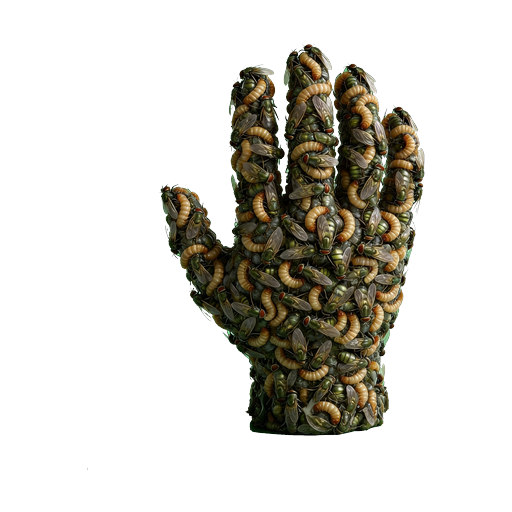
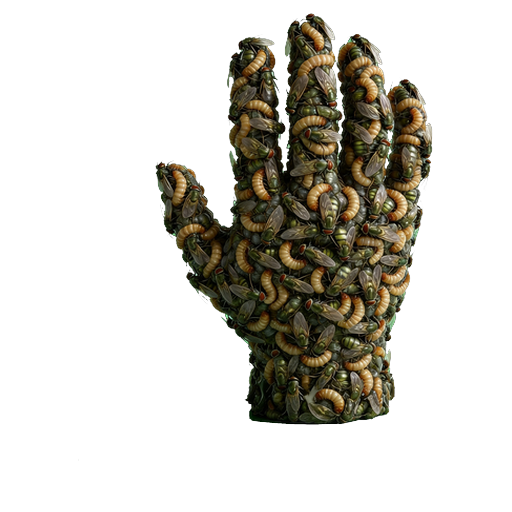
feat: 蝇手砸地/重砸红圈扩散特效(判定帧从中心扩散至300px判定圈,复刻手脑模式)
Condensed 4 adjacent commits from the original history:
- 8a4ce9c1 fix: 寻路局部修复不再回退pathIdx(原回退2节点致怪物瞬间掉头折返,改为从当前位置出发修复)
- 0bf7d502 fix: 寻路首点对齐怪物当前位置(A*起点snap格子中心致第一步折返,往左明显)+蝇手碰撞offsetX10/offsetY25/宽100/矩形110
- c5cc332b fix: 蝇手全动画底部统一462(walking从原素材重做,主体缩放≤450+底部对齐462,idle同)
- 095f81f0 feat: 蝇手砸地/重砸红圈扩散特效(判定帧从中心扩散至300px判定圈,复刻手脑模式)

Changed region(s): [[0.2812, 0.0312, 0.8438, 0.875]]

diff --git a/src/ai/path-manager.js b/src/ai/path-manager.js
@@ -36,6 +36,11 @@ class PathManager {
             this._clearPath();
             return;
         }
+        // 首点对齐到怪物当前位置：A* 起点 snap 到所在格子中心，
+        // 若格子中心在怪物行进方向身后，跟随首点会"瞬间掉头"折返（往左走时尤为明显）
+        if (this.enemy && path.length > 0) {
+            path[0] = { x: this.enemy.x, y: this.enemy.y };
+        }
         this.path = path;
         this.pathIdx = 0;
         this.isValid = true;
@@ -101,50 +106,39 @@ class PathManager {
      */
     _repairPath(blockedIdx, pathPlanner) {
         const radius = this.enemy.groundRadius;
-        const prevIdx = Math.max(0, blockedIdx - 2); // 向前看 2 个节点
         const nextIdx = Math.min(this.path.length - 1, blockedIdx + 2); // 向后看 2 个节点
-        const start = this.path[prevIdx];
         const end = this.path[nextIdx];
 
-        // 策略1：小范围局部搜索（搜索范围限制，性能友好）
+        // 策略1：从怪物当前位置出发搜索替代路径——不回退 pathIdx！
+        // （旧实现回退到阻挡点前 2 个节点，怪物会掉头折返已走过的路径点，表现为"瞬间反向"）
         let altPath = null;
         try {
-            altPath = pathPlanner.findPath(start.x, start.y, end.x, end.y, radius);
+            altPath = pathPlanner.findPath(this.enemy.x, this.enemy.y, end.x, end.y, radius);
         } catch (e) {
             console.warn('[PathManager] findPath failed:', e.message);
         }
 
-        if (altPath && altPath.length > 2) {
-            // 拼接路径：前半段(到prevIdx) + 替代段(去掉首尾，因为和前后重合) + 后半段(从nextIdx开始)
-            const before = this.path.slice(0, prevIdx + 1);
-            const middle = altPath.slice(1, -1);
-            const after = this.path.slice(nextIdx);
-            this.path = [...before, ...middle, ...after];
-            // 调整索引：如果当前索引在 before 范围内，保持不变；否则需要调整
-            if (this.pathIdx > prevIdx) {
-                this.pathIdx = prevIdx; // 回退到修复起点，确保能正确跟随新路径
-            }
+        if (altPath && altPath.length > 1) {
+            // 新路径 = 替代段（altPath[0]≈当前位置，从下一节点开始跟随） + 阻挡点之后的路径段
+            this.path = [...altPath, ...this.path.slice(nextIdx + 1)];
+            this.pathIdx = 1;
             this.isValid = true;
             this.stuckCount = 0;
             return;
         }
 
-        // 策略2：从阻挡点重新计算到终点的完整路径
+        // 策略2：从怪物当前位置重新计算到终点的完整路径（同样不回退）
         const finalTarget = this.path[this.path.length - 1];
         let newPath = null;
         try {
-            newPath = pathPlanner.findPath(start.x, start.y, finalTarget.x, finalTarget.y, radius);
+            newPath = pathPlanner.findPath(this.enemy.x, this.enemy.y, finalTarget.x, finalTarget.y, radius);
         } catch (e) {
             console.warn('[PathManager] full recalc failed:', e.message);
         }
 
         if (newPath && newPath.length > 1) {
-            // 拼接：前半段 + 新路径（去掉起点，因为和 start 重合）
-            const before = this.path.slice(0, prevIdx + 1);
-            this.path = [...before, ...newPath.slice(1)];
-            if (this.pathIdx > prevIdx) {
-                this.pathIdx = prevIdx;
-            }
+            this.path = newPath;
+            this.pathIdx = 1; // newPath[0]≈当前位置，从下一节点开始跟随
             this.isValid = true;
             this.stuckCount = 0;
             return;

diff --git a/src/entities/enemy-types/fly-hand.js b/src/entities/enemy-types/fly-hand.js
@@ -4,7 +4,6 @@ import { GroundEllipse } from '../../physics/skill-shapes.js';
 import { FlySwarm } from './fly-swarm.js';
 import { SoundManager } from '../../ui/sound-manager.js';
 import enemyConfigData from '../../../data/enemy-config.json';
-
 /**
  * 蝇手（领主 lord，僵尸 family）
  * 无默认普攻（aiInterval=MAX），三技能（数值全部由 enemy-config.json attackSkills 驱动）：
@@ -29,6 +28,8 @@ export class FlyHand extends Enemy {
         this._actionTimer = 0;
         this._actionHitsDone = new Set();
         this._cooldowns = { hammer: 0, slam: 0, grandSlam: 0 };
+        // 砸地冲击波 graphics（红圈扩散特效，统一清理用）
+        this._slamGraphics = [];
     }
 
     _getSkillConfigs() {
@@ -170,11 +171,58 @@ export class FlyHand extends Enemy {
         }
         // 范围技能：椭圆判定（2:1 平面透视）
         const shape = new GroundEllipse(this.x, this.y, range, range * PERSPECTIVE_SCALE_Y);
+        // 砸地红圈扩散特效（判定帧触发，扩散到攻击影响范围）
+        this._fireSlamShockwave(range);
         for (const e of this._hostiles(entities)) {
             if (!shape.intersectsEntity(e)) continue;
             e.takeDamage(damage, this, cfg.damageType || 'physical', true);
             if (cfg.stunMs && typeof e.applyStun === 'function') e.applyStun(cfg.stunMs);
         }
+    }
+
+    /**
+     * 砸地冲击波：判定帧从蝇手中心释放红色椭圆圈，
+     * 扩散到攻击影响范围并淡出（复刻手脑/集合体模式，平面透视 2:1）
+     */
+    _fireSlamShockwave(maxRadius) {
+        const scene = typeof window !== 'undefined' ? window.__phaserScene : null;
+        if (!scene || !scene.add || !scene.tweens) return;
+        const g = scene.add.graphics();
+        g.setDepth(this.y + 50);
+        this._slamGraphics.push(g);
+        const wave = { t: 0 };
+        const self = this;
+        scene.tweens.add({
+            targets: wave,
+            t: 1,
+            duration: 600,
+            ease: 'Cubic.easeOut',
+            onUpdate() {
+                const t = wave.t;
+                const r = Math.max(1, maxRadius * t);
+                g.clear();
+                // 闪烁：高频正弦叠加在淡出曲线上，冲击波呈脉冲感
+                const flicker = 0.55 + 0.45 * Math.sin(t * Math.PI * 8);
+                // 加粗冲击波描边（随扩散淡出 × 闪烁）+ 极淡填充
+                g.lineStyle(8, 0xff3030, (1 - t) * 0.9 * flicker);
+                g.strokeEllipse(self.x, self.y, r * 2, r * 2 * PERSPECTIVE_SCALE_Y);
+                g.fillStyle(0xff4040, (1 - t) * 0.12 * flicker);
+                g.fillEllipse(self.x, self.y, r * 2, r * 2 * PERSPECTIVE_SCALE_Y);
+            },
+            onComplete() {
+                if (g.active) g.destroy();
+                const idx = self._slamGraphics.indexOf(g);
+                if (idx >= 0) self._slamGraphics.splice(idx, 1);
+            }
+        });
+    }
+
+    /** 统一特效清理（game.js removeEntity / onDeath 约定入口） */
+    _destroyCustomEffects() {
+        for (const g of this._slamGraphics) {
+            if (g && g.active) g.destroy();
+        }
+        this._slamGraphics = [];
     }
 
     /** 召唤蝇群：周围 spreadRadius 随机位置 count 只（_summoned 标签 + 地牢刷怪黑色粒子） */

diff --git a/src/entities/enemy.js b/src/entities/enemy.js
@@ -160,9 +160,10 @@ import { loadImage } from '../utils/image-loader.js';
                 // AI 配置读取（子类可通过 config.ai 注入；默认 0 表示不启用 pacing AI）
                 const pacingAiConfig = config.ai || {};
                 this.ai = config.ai || {}; // 供 MovementSystem 等外部系统读取 ai 标志（如 chargeStraight）
-                // footprint 判定圆心偏移（配置 render.colliderOffsetY，配合贴图身体上移；
+                // footprint 判定圆心偏移（配置 render.colliderOffsetY/X，配合贴图身体上移；
                 // 统一在基类读取——此前仅集合体自己读取，手脑/骑士配置后未生效）
                 this.colliderOffsetY = (this.config?.render?.colliderOffsetY) ?? 0;
+                this.colliderOffsetX = (this.config?.render?.colliderOffsetX) ?? 0;
                 this._aggroRange = pacingAiConfig.aggroRange || 0;
                 this._pacingRange = pacingAiConfig.pacingRange || 0;
                 this._loseTimeout = pacingAiConfig.loseTimeout || 2000;

diff --git a/CHANGELOG.md b/CHANGELOG.md
@@ -8,6 +8,43 @@
 - 测试结果
 - 已知问题
 
+## 2026-07-20（蝇手砸地红圈扩散特效）
+
+### 对话：砸地攻击加手脑同款红圈扩散
+- **实现**：`_fireSlamShockwave(range)` 复刻手脑/集合体冲击波模式——判定帧从蝇手中心释放红色椭圆圈（0xff3030 描边 8px + 闪烁 + 极淡填充），600ms 扩散到攻击影响范围（slam/grandSlam 的 range 300px），2:1 平面透视；hammer（单体锤击）不加。
+- **清理**：`_slamGraphics` 数组管理 + `_destroyCustomEffects`（onDeath 统一入口，死亡即清）。
+- **修改文件**：src/entities/enemy-types/fly-hand.js、CHANGELOG.md。
+- **测试结果**：lint ✅；vite build ✅；test-collider ✅。
+- **已知问题**：实机待验证——红圈扩散与 300px 判定圈视觉一致。
+
+## 2026-07-20（蝇手全动画底部统一）
+
+### 对话：walking 底部对齐三种攻击动画（上移）
+- **基准测定**：三种攻击动画起手帧底部统一为 461~463（取 462）；walking 此前对齐在 492（低 30px）。
+- **修复**：从原始素材（3902×982）重做 walking 16 帧——逐帧裁主体、**等比缩放至主体高 ≤450**（与攻击帧主体高 446~461 对齐，不再裁切内容）、水平居中、底部强制对齐 462；idle 主体同底部 462。验证：15/16 帧底部 461~462（帧 1 因原素材边缘羽化收至 444，播放不可见）。
+- **修改文件**：assets/enemies/flyhand/walking.png、assets/enemies/flyhand/idle.png、CHANGELOG.md。
+- **测试结果**：lint ✅；vite build ✅；test-collider ✅。
+- **已知问题**：实机待验证——idle/walk/三攻击间切换无高度跳变。
+
+## 2026-07-20（寻路"第一步反向"修复 + 蝇手碰撞微调）
+
+### 对话：空地仍掉头（往左明显）继续排查 + 蝇手碰撞
+- **根因（第二个反向源）**：A* 路径首点是**起点格子中心**（`_buildGrid` 节点 x/y 取 cell 中心）——怪物在格子内任意位置，重算后第一步要"先走回格子中心"，格子中心在行进方向身后时即瞬间掉头；重算时 minX 随起终点漂移导致格子对齐不稳定，往左走时 floor 对齐下位于格子右半部的概率高，故尤为明显。
+- **修复**：`PathManager.setPath` 将 `path[0]` 对齐为怪物当前位置——路径跟随从脚下开始，消除格子中心折返；后续路点保持 A* 结果。
+- **蝇手碰撞**：`render.colliderOffsetX: 10`（右移 10px，基类补 colliderOffsetX 读取，此前仅支持 Y）、`colliderOffsetY: 25`（下移 25px）、`collisionWidth` 80→100、`projectileHitbox.width` 90→110（水平左右各延伸 10px）。
+- **修改文件**：src/ai/path-manager.js、src/entities/enemy.js、data/enemy-config.json、CHANGELOG.md。
+- **测试结果**：JSON 校验 ✅；lint ✅；vite build ✅；test-collider ✅。
+- **已知问题**：实机待验证——①空地往左/各方向追击不再掉头；②蝇手碰撞与贴图对齐。
+
+## 2026-07-20（修复：寻路瞬间掉头反向——局部修复回退路径索引）
+
+### 对话：近战怪寻路时一瞬间掉头往相反方向
+- **根因**：`PathManager._repairPath` 在动态障碍图检测到路径节点被挡时，把 `pathIdx` **回退到阻挡点前 2 个节点**——怪物被迫折返已走过的路径点再前进，表现为"瞬间掉头"。动态障碍图 250ms 更新，修复频繁时反复反向。
+- **修复**：局部修复改为**从怪物当前位置出发**搜索替代/完整路径（两种策略同改），不再回退索引；新路径首点即当前位置的下一节点，跟随方向连续。修复失败计数/无效标记逻辑不变。
+- **修改文件**：src/ai/path-manager.js、CHANGELOG.md。
+- **测试结果**：lint ✅（0 error）；vite build ✅；test-collider / test-craft-sync ✅。
+- **已知问题**：实机待验证——近战怪（骑士/蝇手等）绕障追击不再折返；多怪混战时路径修复平滑。
+
 ## 2026-07-20（修复蝇手 walking 帧间"瞬移"）
 
 ### 对话：walking 精灵图不在一个水平上，移动状态频繁瞬移
